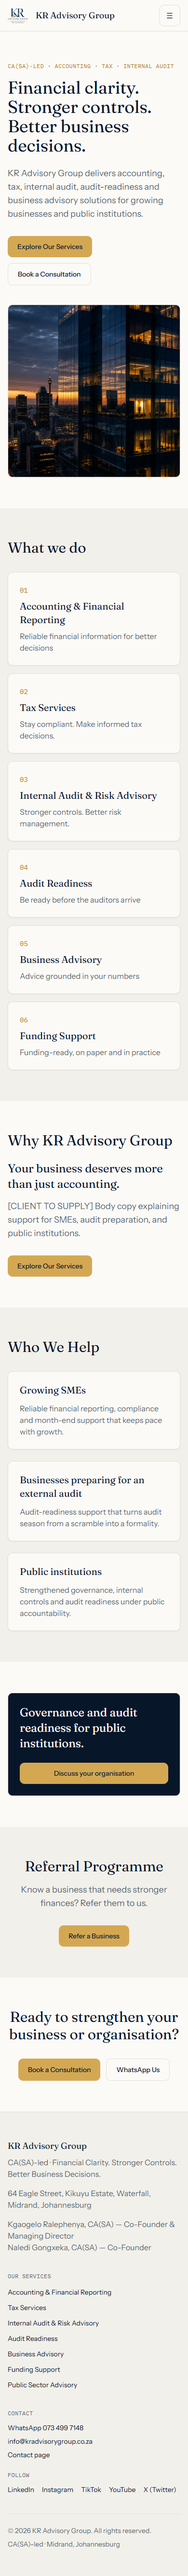
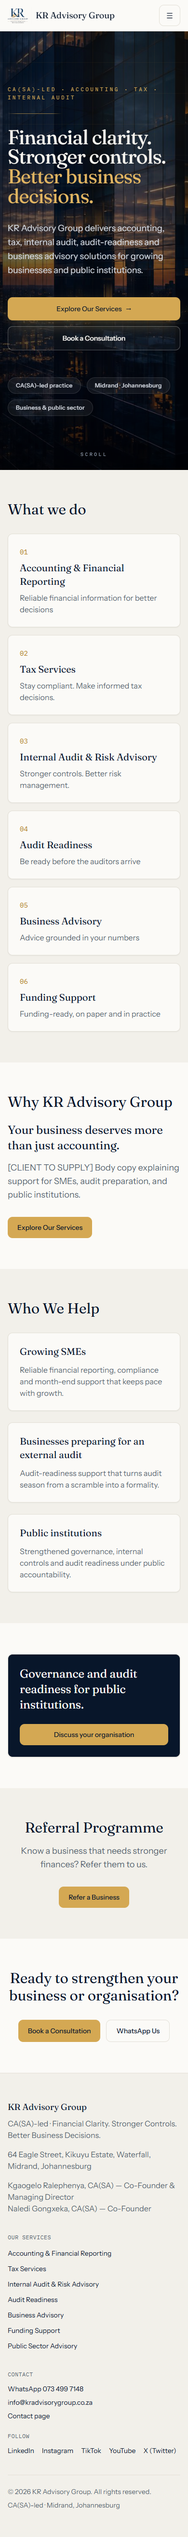
docs: add hero elevation visual QA and screenshots

Changed region(s): [[0.0, 0.0, 1.0, 0.9981]]

diff --git a/VISUAL_QA.md b/VISUAL_QA.md
@@ -110,3 +110,41 @@ Full set:
 - **Tooling added for QA** (dev-only, not shipped to users): `playwright-core`, `sirv-cli`, and scripts under `src/scripts/` (`visual-qa.mjs` plus debug helpers). These can be kept for regression runs or removed; they do not affect the production bundle.
 
 **Conclusion:** Phase 2.5 visual QA is complete. The critical hydration defect and all overflow issues are fixed and re-verified in a real browser. The build is visually sound across the full device range and ready to proceed to Phase 3 on your approval.
+
+
+---
+
+# Addendum — Homepage Hero Elevation (award-quality pass)
+
+**Date:** 10 October 2026
+**Objective:** Preserve the production homepage's visual impact and design language (navy + brass, Fraunces display, CA(SA)-led advisory firm) while elevating the hero to agency-award quality — the register of Deloitte / McKinsey / BCG / PwC / EY, explicitly **not** a SaaS landing page. Design language was *improved*, not replaced.
+
+## What changed
+- **New immersive hero** (`src/components/layout/Hero.tsx`), replacing the previous two-column image-card hero.
+- The verified city/building image (`/hero.jpg`) is now a **full-width immersive background** on a full-viewport section (`min-h-[100svh]`), with the headline vertically centred.
+- **Layered depth overlays** (`src/index.css`, `@layer components`):
+  - navy gradient (bottom/left darkening for legibility) + a faint brass radial glow top-right;
+  - a **refined architectural grid** of fine brass lines, radial-masked to fade outward (reads as depth, not a generic grid);
+  - an inset vignette for edge depth;
+  - **glass accents** (`backdrop-filter`) on the credential chips and the secondary CTA.
+- **Typography:** dramatically larger Fraunces headline via `clamp(2.6rem, 7vw, 5.75rem)` (≈92px at desktop, 41.6px at mobile), light weight, tight tracking/leading, deliberate 3-line break. The final clause ("Better business decisions.") is accented in brass. **The headline text is verbatim** — only the wrap points are controlled.
+- **CTA group** directly beneath the value proposition with clear hierarchy: primary = solid brass with hover lift + shadow; secondary = glass ghost (`Book a Consultation`, verified WhatsApp consultation URL).
+- **Motion:** staggered entrance rise/fade + a very slow brass-glow drift, both fully disabled under `prefers-reduced-motion`.
+- **Glass credential chips** use verified facts only (CA(SA)-led practice · Midrand · Johannesburg · Business & public sector).
+
+## Verification (rendered in Microsoft Edge)
+- Full-viewport hero at every breakpoint: heights 1080 / 900 / 832 / 1024 / 909 / 955 px at 1920 / 1440 / 1024 / 768 / 390 / 360.
+- Responsive headline confirmed (92px → 41.6px).
+- **Zero horizontal overflow** on all 5 pages × 6 viewports; Home retains exactly one H1, header/footer/logo present; no console errors or failed requests.
+- Verbatim content preserved; no fabrication; the `[CLIENT TO SUPPLY]` placeholders elsewhere on the page are unchanged.
+- CTA hierarchy verified: primary brass fill vs. secondary glass ghost are visually distinct (fixed a first-pass issue where the themed Button's brass-fill utilities overrode the ghost treatment — the secondary CTA is now a direct anchor).
+
+## Screenshots (hero, viewport-framed)
+![Hero 1920](./qa-screenshots/hero-1920.png)
+![Hero 390 mobile](./qa-screenshots/hero-390.png)
+
+Full set: `hero-1920.png`, `hero-1440.png`, `hero-1024.png`, `hero-768.png`, `hero-390.png`, `hero-360.png`, plus the updated full-page `home-*.png`.
+
+## Accessibility notes
+- The hero inverts the light-background contrast context: text is light-on-deep-navy, so the near-white headline and bright-brass accents have **high** contrast on the dark image+overlay. The brass-on-light policy (bright brass only for large text/fills on light surfaces) still governs the rest of the light-background page.
+- The background image is `alt=""` / `aria-hidden` (decorative); the H1 carries the meaning. Formal WCAG 2.2 AA contrast measurement over the image (worst-case pixel behind text) remains a Phase 4 task.
